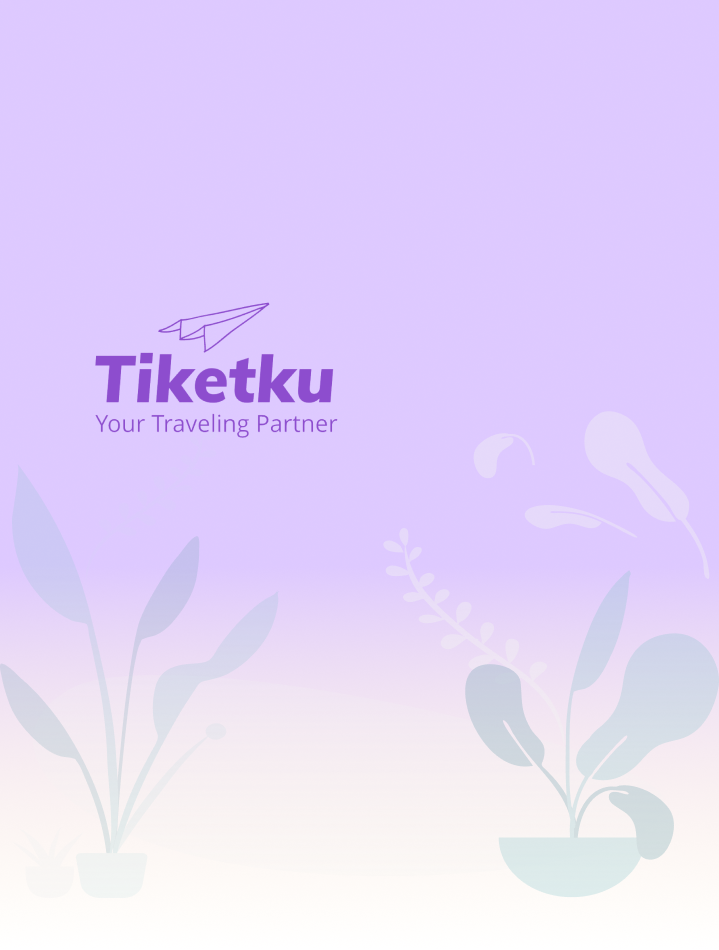
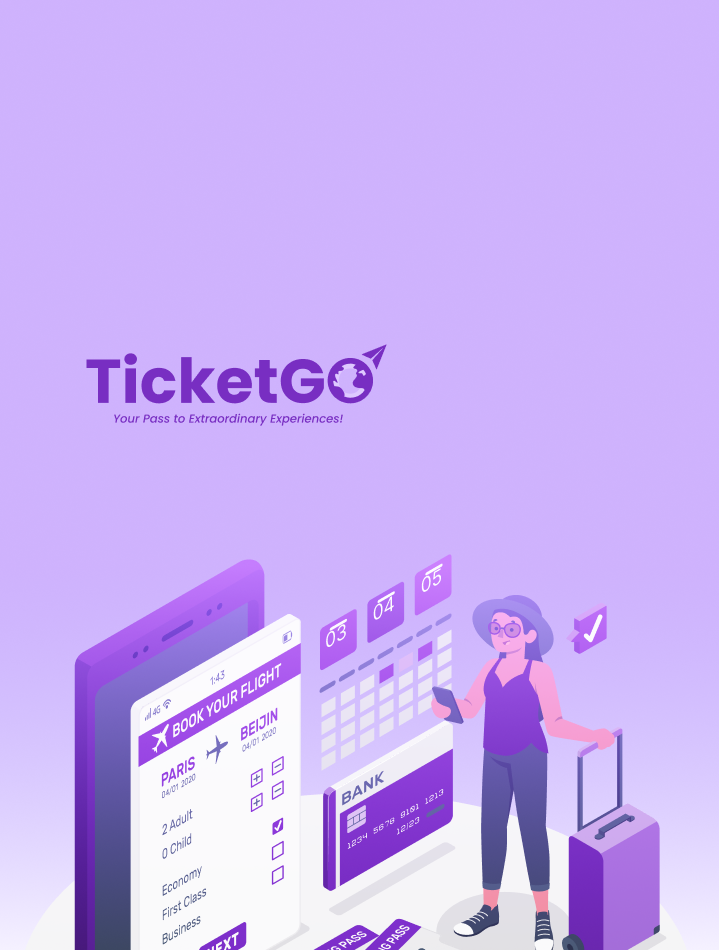
refactor: re-branding main assets

diff --git a/app/(pages)/riwayat/page.jsx b/app/(pages)/riwayat/page.jsx
@@ -1,6 +1,6 @@
 'use client';
 
-import React, { useState } from 'react';
+import React, { useEffect, useState } from 'react';
 import Image from 'next/image';
 
 import NavbarLogin from "@/components/NavbarLogin";
@@ -16,16 +16,39 @@ import DetailPemesanan from "@/components/Riwayat/DetailPemesanan"
 import BackArrow from "@/assets/fi_arrow.svg";
 import IconFilter from "@/assets/icon-filter.svg";
 import IconSearch from "@/assets/icon-search.svg";
+import { getToken } from '@/utils/helper';
 
 
-
-
+const getTransaction = async (token) => {
+  try {
+    const res = await fetch("https://c2-backend.up.railway.app/api/v1/transaction", {
+      headers: {
+        Authorization: `Bearer ${token}`,
+      }
+    });
+    return res.json()
+  } catch (error) {
+    console.log(error);
+  }
+}
 
 const HistoryPage = () => {
+  const token = getToken();
+  const [data, setData] = useState()
   const [showModal, setShowModal] = useState(false);
   const handleCloseModal = () => {
     setShowModal(false);
   };
+
+  const fetchTransaction = async () => {
+    const data = await getTransaction(token);
+    setData(data)
+  }
+
+  useEffect(() => {
+    fetchTransaction()
+  }, [])
+
   return (
     <>
       <NavbarLogin />
@@ -52,55 +75,56 @@ const HistoryPage = () => {
 
             <div className="flex justify-between gap-x-4">
               <div className="items-center my-auto">
-              <button className="flex items-center rounded-2xl w-[90px] font-normal text-base leading-6 border-2 border-[#A06ECE]" onClick={() => setShowModal(true)}>
-                <div className="flex h-8 mx-auto ">
+                <button className="flex items-center rounded-2xl w-[90px] font-normal text-base leading-6 border-2 border-[#A06ECE]" onClick={() => setShowModal(true)}>
+                  <div className="flex h-8 mx-auto ">
                     <Image
-                    className="items-center mr-2.5"
-                    src={IconFilter}
-                    width={17}
-                    height={17}
-                    alt=""
-                  />
-                  <span className="self-center" >Filter</span>
-                </div>
-              </button>
+                      className="items-center mr-2.5"
+                      src={IconFilter}
+                      width={17}
+                      height={17}
+                      alt=""
+                    />
+                    <span className="self-center" >Filter</span>
+                  </div>
+                </button>
+              </div>
+
+              <div className="my-auto" >
+                <Image
+                  className=""
+                  src={IconSearch}
+                  width={24}
+                  height={24}
+                  alt=""
+                />
+              </div>
             </div>
 
-            <div className="my-auto" >
-              <Image
-                className=""
-                src={IconSearch}
-                width={24}
-                height={24}
-                alt=""
-              />
-            </div>
-            </div>
-            
 
           </div>
 
 
         </div>
 
-        {showModal && <ModalSearch showModal={showModal} handleCloseModal={handleCloseModal}/>}
+        {showModal && <ModalSearch showModal={showModal} handleCloseModal={handleCloseModal} />}
 
 
         <div className="main flex flex-col sm:flex-row mx-auto">
 
-          
+
 
           <div className="section-pemesanan w-full sm:w-[518px] mx-auto">
-            
-            <RiwayatBulan/>
+            {data?.data?.map((item, index) => (
+              <RiwayatBulan key={index} />
+            ))}
 
           </div>
 
 
           <div className="section-detail w-full sm:w-[370px] mt-7 mx-auto">
-        
-            <DetailPemesanan/>
-          
+
+            <DetailPemesanan />
+
           </div>
 
 
